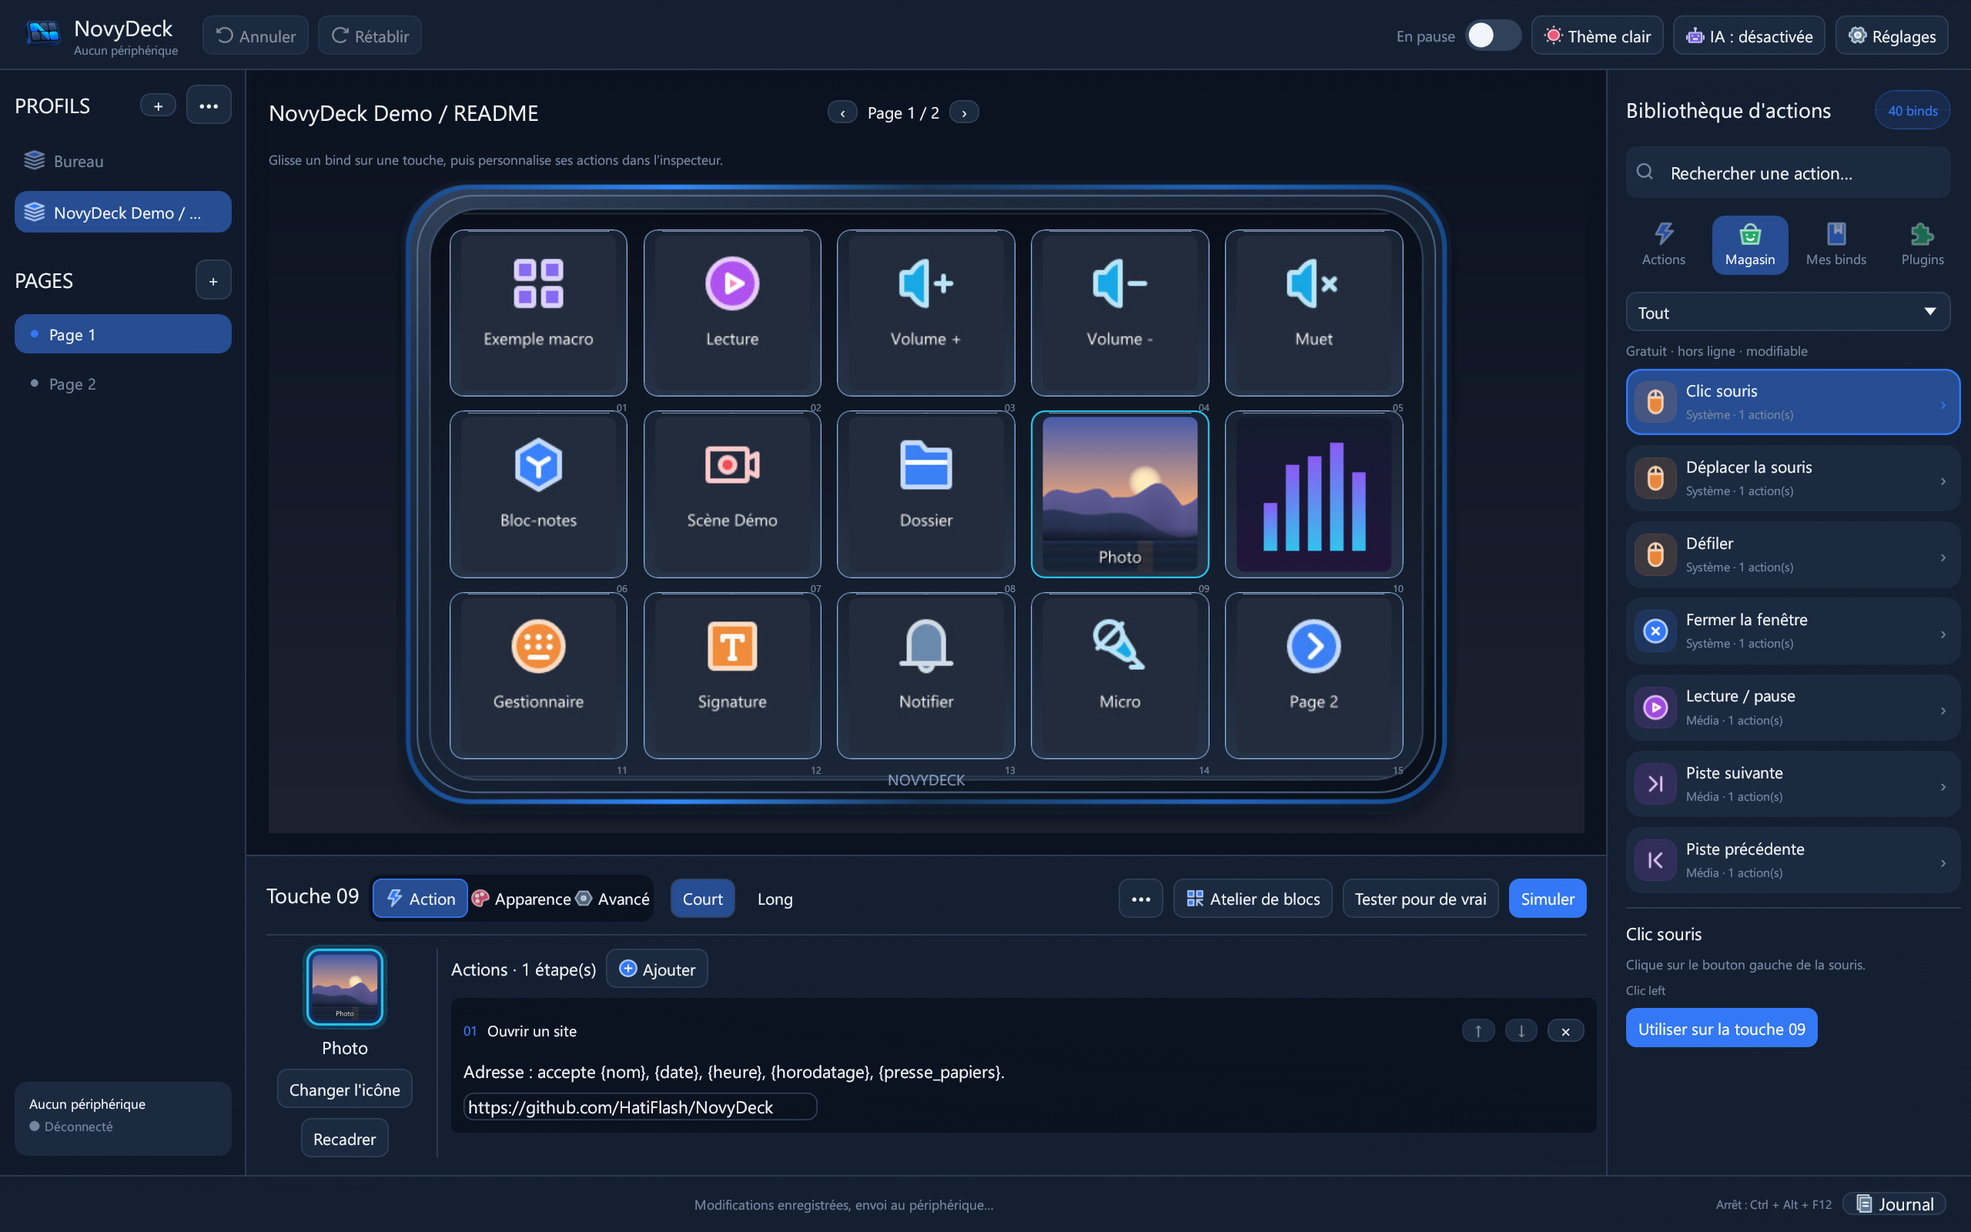
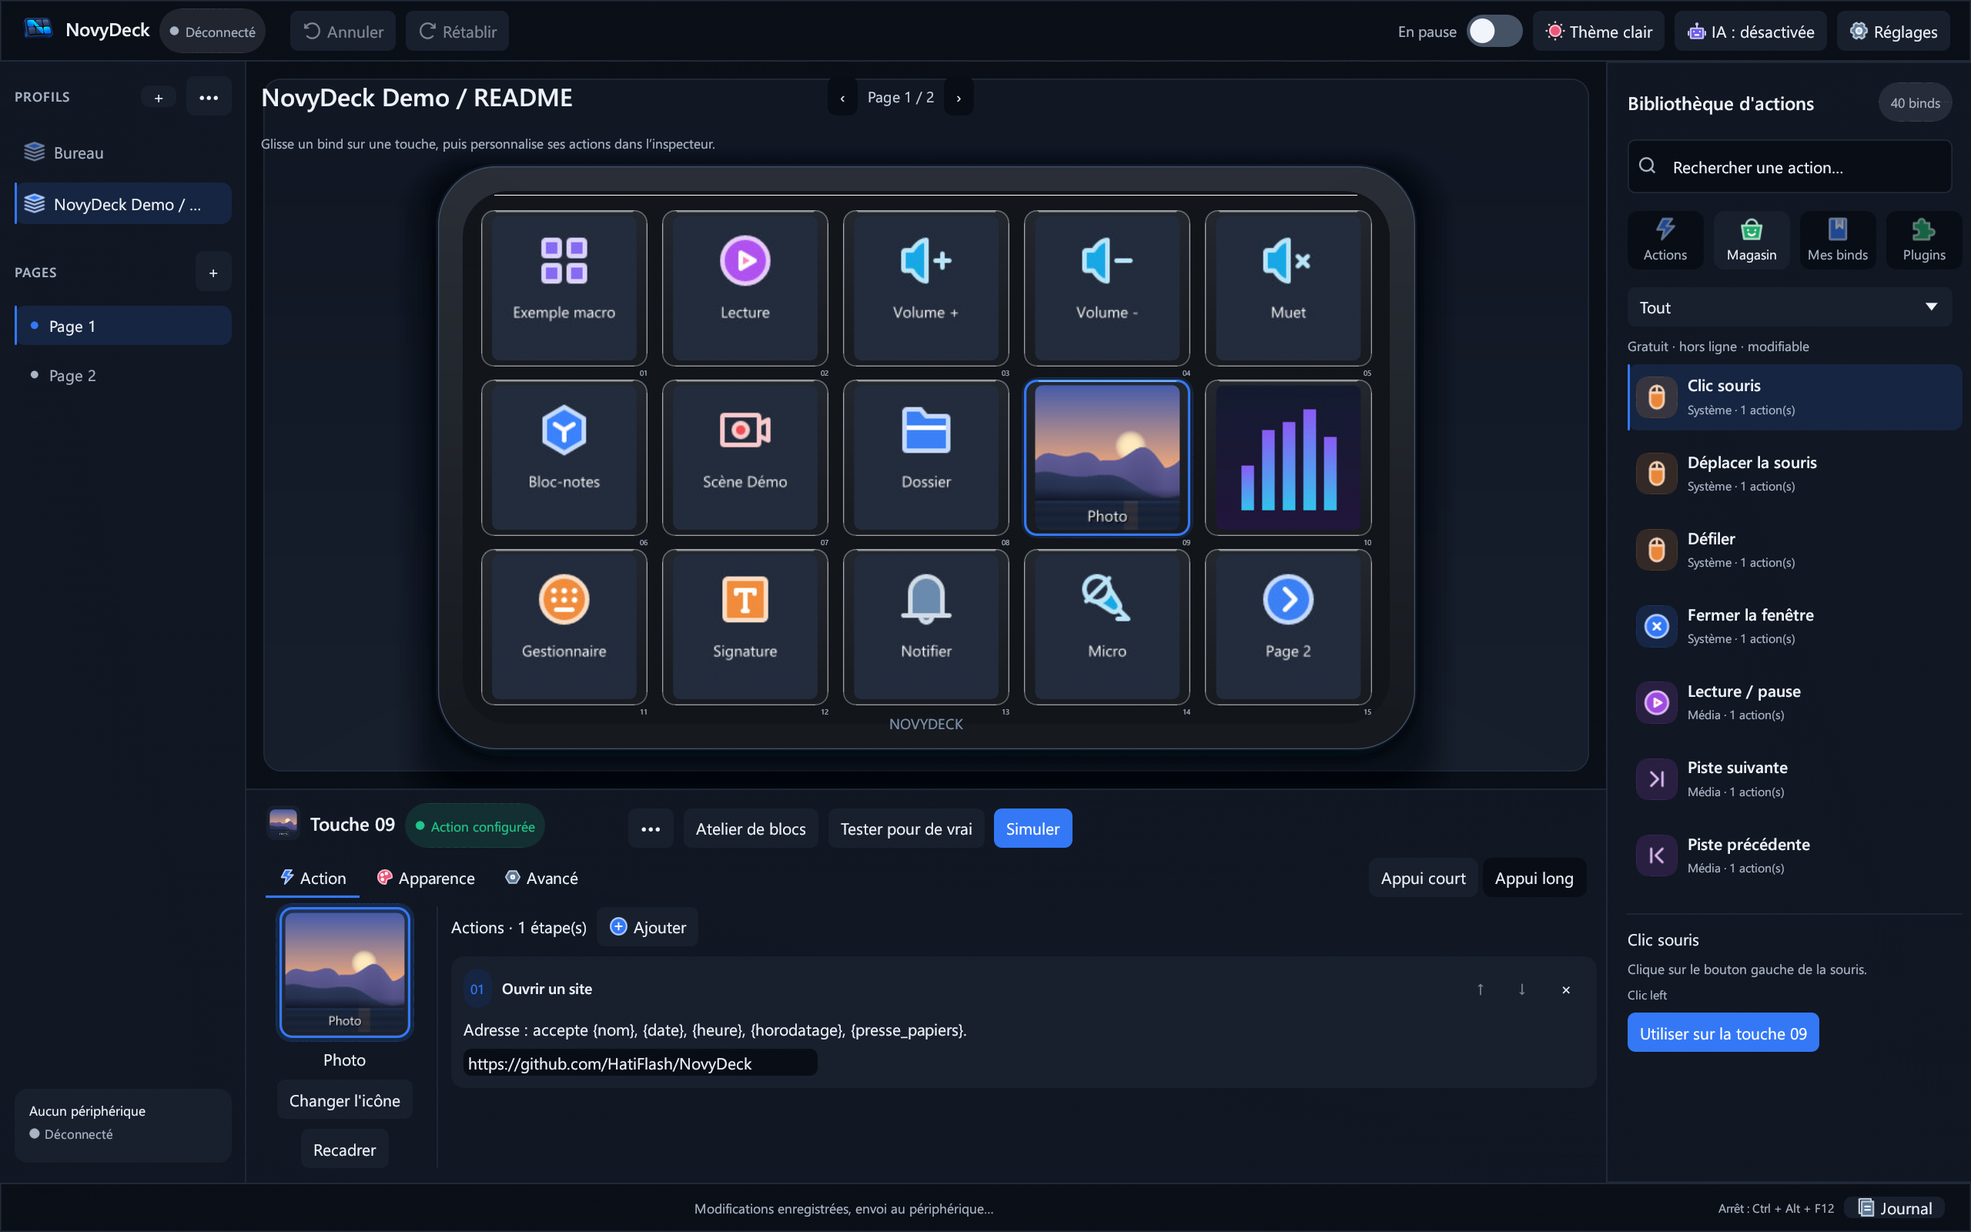
NovyDeck 0.10.0: redesigned interface and design system

diff --git a/docs/DESIGN.md b/docs/DESIGN.md
@@ -1,15 +1,65 @@
 # Identité visuelle de NovyDeck
 
-Ce document décrit les règles visuelles **déjà appliquées dans le code** (`src/theme.rs`). Il sert de référence pour les nouvelles fenêtres, la documentation et la vidéo. Il ne décrit pas une refonte.
+Ce document décrit les règles visuelles **appliquées dans le code** (`src/theme.rs`, `src/deck_chassis.rs`). Il sert de référence pour les nouvelles fenêtres, la documentation et la vidéo. Depuis la 0.10.0, l'interface suit le design system ci-dessous, inspiré de Linear, Raycast, Figma et du Stream Deck, rendu nativement avec egui.
 
 ## Principes
 
-- Thème sombre par défaut (bleu nuit et gris ardoise), thème clair complet. Les couleurs sont lues dans la palette courante (`theme::palette`), jamais codées en dur dans les écrans.
+- Thème sombre par défaut (bleu nuit profond et graphite), thèmes clairs complets. Les couleurs sont lues dans la palette courante (`theme::palette`), jamais codées en dur dans les écrans.
 - Un seul accent pour la sélection et l'action principale. Le vert signale ce qui est connecté ou réussi, l'orange un avertissement et le rouge un danger. Une couleur n'est jamais le seul indice : un texte ou une icône l'accompagne.
 - Pas d'émojis comme icônes de navigation, pas de lueurs néon ni d'effets coûteux image après image.
 - Le contenu des touches (images, GIF, vidéos, couleurs) appartient à l'utilisateur. Le style des icônes de l'interface ne lui est jamais imposé.
 
-## Jetons
+## Design system (0.10.0)
+
+**Principe :** calme, précis, matériel. La profondeur vient des niveaux de fond plutôt que de bordures partout ; un seul accent ; le chrome reste discret pour que le deck soit le héros. La disposition ne change pas : navigation à gauche, deck et inspecteur au centre, bibliothèque d'actions à droite.
+
+### Surfaces et textes (`Palette`)
+
+| Jeton | Bleu nuit | Graphite | Clair | Sable | Usage |
+|---|---|---|---|---|---|
+| `canvas` | `#0B0F17` | `#0C0D10` | `#F5F6F8` | `#F7F4EF` | fond de l'application |
+| `sunken` | `#090E16` | `#0A0B0E` | `#EBEDF1` | `#EEE9E1` | champs, zones encastrées, onglets segmentés |
+| `surface` | `#111723` | `#121418` | `#FFFFFF` | `#FFFDF9` | panneaux (navigation, bibliothèque, inspecteur), scène du deck |
+| `raised` | `#18202E` | `#191C21` | `#F0F2F5` | `#F2EDE5` | cartes, boutons secondaires, éléments survolés |
+| `overlay` | `#1E2737` | `#20242A` | `#FFFFFF` | `#FFFDF9` | menus, popovers |
+| `hairline` | `#222B3A` | `#23262D` | `#E4E7EC` | `#E3DCD2` | séparateurs 1 px |
+| `border_strong` | `#455266` | `#42464E` | `#C0C7D0` | `#C6BAAC` | contours marqués (châssis, focus hors accent) |
+| texte primaire | `#EFF3F9` | `#F3F4F6` | `#0E1116` | `#211D18` | titres et texte courant |
+| texte secondaire | `#C7D1DF` | `#CBCFD6` | `#434A55` | `#4D443A` | descriptions |
+| texte tertiaire | `#A9B4C5` | `#AEB3BB` | `#565D67` | `#63584C` | légendes, intitulés de section |
+
+`accent` vient du réglage d'accent (bleu par défaut `#3478F6`) ; `accent_hover`, `accent_soft` (fond de sélection, ~14 %), `accent_ring` et `on_accent` en sont dérivés. En clair, l'émeraude et l'orange sont assombris pour garder un contraste suffisant. Les couleurs sémantiques (succès, avertissement, danger) ont chacune une variante `*_soft` pour les fonds de pastilles. Le test `theme` vérifie les contrastes WCAG (texte ≥ 4,5:1, composants ≥ 3:1) pour les 4 thèmes × 5 accents.
+
+### Typographie
+
+Segoe UI pour le texte, **Segoe UI Semibold** (`theme::strong`, famille `strong`, repli sur Segoe UI si absente) pour les titres et les libellés actifs. Échelle : 11 (légende, intitulés de section en majuscules espacées via `theme::overline`), 12 (secondaire), 13 (corps dense et boutons), 15 (sous-titres de panneau), 20 (titre du profil).
+
+### Espacements, rayons, ombres
+
+Grille de 4 (`SPACE` = 4 · 8 · 12 · 16 · 24 · 32). Rayons : 6 contrôles (`RADIUS_SM`), 10 cartes et lignes (`RADIUS_MD`), 14 panneaux, fenêtres et scène (`RADIUS_LG`). Ombres douces uniquement sur fenêtres, menus et popovers, et ombre portée en couches sous le châssis du deck (pas de halo coloré).
+
+### Composants (`src/theme.rs`)
+
+| Composant | Rendu |
+|---|---|
+| `primary` | accent plein, texte `on_accent` ; une seule action principale par zone (Simuler, Utiliser sur la touche) |
+| `ghost_button` / `secondary_button` | fond `raised` discret, **aucun contour au repos**, plus clair au survol, `accent_soft` à l'appui |
+| `icon_button` | carré compact avec icône IconPark, infobulle et nom accessible (Annuler, Rétablir…) |
+| `segmented` | pilules sur fond `sunken`, élément actif en `raised` (pagination, Appui court / long, onglets de la bibliothèque) |
+| `underline_tabs` | onglets texte + icône avec indicateur accent de 2 px (Action / Apparence / Avancé) |
+| `list_row` | ligne sans cadre, fond au survol, sélection `accent_soft` + barre d'accent de 2 px à gauche |
+| `search_field` | champ encastré avec loupe et texte indicatif tertiaire |
+| `overline`, `pill`, `status_badge`, `card` | intitulés de section, pastilles d'état sans contour, cartes `raised` |
+
+### Deck
+
+Châssis graphite avec contour `border_strong`, reflet haut discret et ombre portée douce, posé sur une scène `surface` arrondie. Les faces ont des teintes graphite fixes dans tous les thèmes (elles sont sur le châssis), un contour presque invisible, un éclaircissement au survol (~100 ms) et un anneau d'accent de 2 px sur la touche sélectionnée ; le vert signale toujours un appui. Les images envoyées au périphérique ne changent pas.
+
+### Mouvement
+
+Transitions de survol et d'appui de 100 à 120 ms (`animate_bool_with_time`), uniquement sur l'opacité ou la couleur : aucune cible de clic ne se déplace. Elles sont coupées par **Réduire les animations**.
+
+## Jetons historiques
 
 | Jeton | Valeur | Usage |
 |---|---|---|
@@ -18,8 +68,8 @@ Ce document décrit les règles visuelles **déjà appliquées dans le code** (`
 | `WARNING` | `#F5AD42` | avertissement, plugin en erreur |
 | `DANGER` | `#F25F70` | action destructrice |
 | `SPACE` | 4 · 8 · 12 · 16 · 24 · 32 | espacements ; `item_spacing` = 8 |
-| `RADIUS_SM` | 8 | boutons, champs |
-| `RADIUS_MD` | 12 | menus, cartes, panneaux non interactifs |
+| `RADIUS_SM` | 6 | boutons, champs |
+| `RADIUS_MD` | 10 | menus, cartes, lignes de liste |
 | `RADIUS_LG` | 14 | fenêtres |
 | `KEY_LCD_RADIUS` | 6 | écran d'une touche hors châssis SVG |
 
@@ -47,5 +97,5 @@ La source utilisateur RGBA et son alpha sont conservés. Les déclinaisons sont 
 
 ## Captures et vidéo
 
-- Les captures `docs/images/*.png` sont produites par `readme_captures_from_the_demo_profile` (`src/ui_tests.rs`). Ce test exécute le vrai code d'interface hors écran, à **2560 × 1600 pixels** (1600 × 1000 points à 160 %), avec le profil « NovyDeck Demo / README ». Il ne fait aucun agrandissement après coup, et le filtrage des textures est bilinéaire comme dans le rendu GPU. Le contenu des touches reste l'image réelle de 126 × 126 pixels envoyée au D6.
+- Les captures `docs/images/*.png` sont produites par `readme_captures_from_the_demo_profile` et `readme_captures_redesign_in_both_themes_and_languages` (`src/ui_tests.rs`). Ce test exécute le vrai code d'interface hors écran, à **2560 × 1600 pixels** (1600 × 1000 points à 160 %), avec le profil « NovyDeck Demo / README ». Il ne fait aucun agrandissement après coup, et le filtrage des textures est bilinéaire comme dans le rendu GPU. Le contenu des touches reste l'image réelle de 126 × 126 pixels envoyée au D6.
 - La vidéo publiée `docs/media/novydeck-demo.mp4` est un film de présentation de 40 s en 1920 × 1080 à 60 i/s, avec son, réalisé hors du dépôt avec Remotion et three.js : pavé D6 en 3D, captures réelles de l'interface et musique synthétisée. Le pipeline `scripts/media/remotion/` du dépôt reste disponible pour la présentation précédente ; il ne produit pas ce film publié.

diff --git a/README.fr.md b/README.fr.md
@@ -5,7 +5,7 @@
   <h1>NovyDeck</h1>
   <p>Logiciel libre pour Windows qui pilote les stream decks : touches, macros, médias et plugins, sans le logiciel officiel. Testé sur le FIFINE AmpliGame D6 et l'Elgato Stream Deck.</p>
   <p>
-    <a href="https://github.com/HatiFlash/NovyDeck/releases/tag/v0.9.3"><img src="https://img.shields.io/badge/Release-v0.9.3-3478F6.svg" alt="Version 0.9.3"></a>
+    <a href="https://github.com/HatiFlash/NovyDeck/releases/tag/v0.10.0"><img src="https://img.shields.io/badge/Release-v0.10.0-3478F6.svg" alt="Version 0.10.0"></a>
     <a href="LICENSE"><img src="https://img.shields.io/badge/Licence-MIT-22C58B.svg" alt="Licence MIT"></a>
     <img src="https://img.shields.io/badge/Windows-10%20%2F%2011-555.svg" alt="Windows 10/11">
   </p>
@@ -20,6 +20,24 @@
 [![Voir le film de présentation NovyDeck](docs/media/novydeck-demo-poster.png)](docs/media/novydeck-demo.mp4)
 
 Un film de présentation de 40 s en 1920 × 1080 à 60 i/s, avec son, réalisé avec Remotion et three.js. Il montre le pavé D6 en 3D, de vraies captures de l'interface et une musique synthétisée. Le film publié a été produit hors du dépôt.
+
+## Nouveautés 0.10.0
+
+### Une interface redessinée
+
+NovyDeck change de visage, avec un design inspiré de Linear, Raycast, Figma et du Stream Deck, toujours rendu nativement en Rust avec egui. La disposition que vous connaissez ne bouge pas (navigation à gauche, deck et inspecteur de la touche au centre, bibliothèque d'actions à droite) ; tout le reste a été redessiné :
+
+- **Le deck au premier plan.** Fini le néon bleu : un châssis graphite avec une ombre portée douce, posé sur une scène arrondie. Les touches sont plus sobres, s'éclairent au survol et la touche sélectionnée est marquée par un anneau d'accent.
+- **Des contrôles plus calmes.** Les boutons secondaires n'ont plus de contour et s'éclairent au survol ; seule l'action principale de chaque zone (**Simuler**, **Utiliser sur la touche**) est mise en avant. En petite fenêtre, Annuler et Rétablir se réduisent à leurs icônes.
+- **Un inspecteur de touche plus clair.** Un en-tête avec l'aperçu de la touche, son nom et une pastille d'état ; des onglets soulignés **Action / Apparence / Avancé** avec le choix **Appui court / Appui long** sur la même ligne ; les étapes présentées en cartes.
+- **Une bibliothèque d'actions épurée.** Des lignes sans cadre, une barre d'accent sur l'élément sélectionné, des noms en semi-gras et une carte de détail.
+- **Un vrai design system.** Des couleurs plus profondes et moins saturées dans les quatre thèmes (le vôtre change aussi), Segoe UI Semibold pour les titres, petites capitales espacées pour les intitulés de section, une grille d'espacement de 4 pixels, des rayons cohérents, des ombres douces sur les menus et de courtes transitions au survol, coupées par **Réduire les animations**.
+
+Vos profils, images de touches, macros et plugins ne changent pas, et les images envoyées au périphérique restent identiques.
+
+| Thème sombre | Thème clair |
+|:--:|:--:|
+| ![Interface NovyDeck redessinée, thème sombre](docs/images/redesign-dark-fr.png) | ![Interface NovyDeck redessinée, thème clair](docs/images/redesign-light-fr.png) |
 
 ## Nouveautés 0.9.3
 
@@ -220,6 +238,7 @@ NovyDeck fonctionne hors ligne. L'IA locale reste sur votre PC ; elle est facult
 
 ## Dernière version
 
+- **0.10.0 :** interface redessinée avec un nouveau design system : scène du deck graphite sans néon, boutons sans contour, inspecteur de touche plus clair avec onglets soulignés, bibliothèque épurée, couleurs plus profondes dans tous les thèmes et titres en semi-gras. Profils, médias et plugins conservés.
 - **0.9.3 :** badges de sécurité dans le magasin (analyse automatique sur GitHub) ; plugins officiels 1.0.2 avec logos et réglages repensés ; plus de console pendant la mise à jour ; fenêtres secondaires fixes ; état ON/OFF conservé entre les pages.
 - **0.9.2 :** deux images Activé/Désactivé par touche alternent à l’appui court physique ; textes anglais et panneau Windows fixe ; plugins officiels 1.0.1 sans cadres noirs, aperçus CPU/RAM mesurés.
 - **0.9.1 :** le magasin de plugins devient une page fixe de l'application (plus de fenêtre flottante), avec bouton retour et Échap ; les blocs de plugins de l'Atelier affichent les noms lisibles du plugin et de l'action ; le README présente les nouveautés 0.9.0 avec captures.

diff --git a/README.md b/README.md
@@ -5,7 +5,7 @@ English · [Français](README.fr.md)
   <h1>NovyDeck</h1>
   <p>Open-source Windows software for stream decks: keys, macros, media and plugins, without the official software. Tested on the FIFINE AmpliGame D6 and the Elgato Stream Deck.</p>
   <p>
-    <a href="https://github.com/HatiFlash/NovyDeck/releases/tag/v0.9.3"><img src="https://img.shields.io/badge/Release-v0.9.3-3478F6.svg" alt="Release v0.9.3"></a>
+    <a href="https://github.com/HatiFlash/NovyDeck/releases/tag/v0.10.0"><img src="https://img.shields.io/badge/Release-v0.10.0-3478F6.svg" alt="Release v0.10.0"></a>
     <a href="LICENSE"><img src="https://img.shields.io/badge/License-MIT-22C58B.svg" alt="MIT license"></a>
     <img src="https://img.shields.io/badge/Windows-10%20%2F%2011-555.svg" alt="Windows 10/11">
   </p>
@@ -20,6 +20,24 @@ English · [Français](README.fr.md)
 [![Watch the NovyDeck presentation film](docs/media/novydeck-demo-poster.png)](docs/media/novydeck-demo.mp4)
 
 A 40-second presentation film in 1920 × 1080 at 60 fps with sound, made with Remotion and three.js. It features a 3D D6 deck, actual interface captures and synthesized music. The published film was produced outside this repository.
+
+## What's new in 0.10.0
+
+### A redesigned interface
+
+NovyDeck has a new visual design, inspired by Linear, Raycast, Figma and the Stream Deck, still rendered natively in Rust with egui. The layout you know stays the same (navigation on the left, deck and key inspector in the middle, action library on the right); everything else was redrawn:
+
+- **The deck is the hero.** No more blue neon glow: a graphite chassis with a soft drop shadow, on a rounded stage. Keys are calmer, light up on hover and show the selected key with an accent ring.
+- **Calmer controls.** Secondary buttons no longer have outlines and brighten on hover; only the main action of each area (**Simulate**, **Use on key**) is highlighted. In small windows, Undo and Redo shrink to icon buttons.
+- **A clearer key inspector.** A header with the key preview, its name and a status badge; underlined **Action / Appearance / Advanced** tabs with the **Short press / Long press** switch on the same line; steps shown as cards.
+- **A cleaner action library.** Flat rows with a highlight bar on the selected item, semibold names and a details card.
+- **A real design system.** Deeper, less saturated colours in all four themes (your current theme changes too), Segoe UI Semibold for titles, small spaced capitals for section labels, a 4-pixel spacing grid, consistent radii, soft shadows on menus, and short hover transitions that turn off with **Reduce animations**.
+
+Your profiles, key images, macros and plugins are untouched, and the images sent to the device do not change.
+
+| Dark theme | Light theme |
+|:--:|:--:|
+| ![Redesigned NovyDeck interface, dark theme](docs/images/redesign-dark.png) | ![Redesigned NovyDeck interface, light theme](docs/images/redesign-light.png) |
 
 ## What's new in 0.9.3
 
@@ -220,6 +238,7 @@ NovyDeck works offline. Local AI stays on your PC and is optional and disabled b
 
 ## Latest release
 
+- **0.10.0:** redesigned interface with a new design system: graphite deck stage without neon glow, outline-free buttons, clearer key inspector with underlined tabs, cleaner action library, deeper colours in all themes and Semibold titles. Profiles, media and plugins are kept.
 - **0.9.3:** security badges in the plugin store (automatic GitHub scan); official plugins 1.0.2 with logos and cleaner settings; no console during in-app updates; fixed secondary windows; ON/OFF state kept across pages.
 - **0.9.2:** keys can alternate two user-selected ON/OFF images on short physical presses; English text and a fixed Windows and shortcuts dialog; official plugins 1.0.1 improve key text and CPU/RAM previews.
 - **0.9.1:** the plugin store is now a fixed page of the app (no floating window), with a back button and Esc; plugin blocks in the block editor show readable plugin and action names; README presents the 0.9.0 features with screenshots.

diff --git a/docs/RELEASE-0.10.0.md b/docs/RELEASE-0.10.0.md
@@ -1,0 +1,23 @@
+# NovyDeck 0.10.0 — a redesigned interface
+
+## English
+
+- **New visual design.** Inspired by Linear, Raycast, Figma and the Stream Deck, still native Rust and egui. The layout stays the same (navigation left, deck and inspector centre, action library right).
+- **Deck stage.** Graphite chassis with a soft drop shadow instead of the blue neon glow; calmer keys that light up on hover; accent ring on the selected key.
+- **Controls.** Outline-free secondary buttons that brighten on hover; one highlighted main action per area; Undo/Redo shrink to icons in small windows; compact status badge.
+- **Key inspector.** Header with key preview, name and status; underlined Action / Appearance / Advanced tabs with the Short / Long press switch on the same line; steps shown as cards.
+- **Action library.** Flat rows with a highlight bar on the selection, semibold names and a details card.
+- **Design system.** Deeper, less saturated colours in all four themes, Segoe UI Semibold titles, spaced capitals for section labels, 4-pixel spacing grid, consistent radii, soft shadows on menus and short hover transitions (off with Reduce animations).
+
+Your profiles, key images, macros and plugins are kept; images sent to the device are unchanged.
+
+## Français
+
+- **Nouveau design.** Inspiré de Linear, Raycast, Figma et du Stream Deck, toujours natif en Rust et egui. La disposition ne change pas (navigation à gauche, deck et inspecteur au centre, bibliothèque d'actions à droite).
+- **Scène du deck.** Châssis graphite avec ombre portée douce à la place du néon bleu ; touches plus sobres qui s'éclairent au survol ; anneau d'accent sur la touche sélectionnée.
+- **Contrôles.** Boutons secondaires sans contour qui s'éclairent au survol ; une seule action principale mise en avant par zone ; Annuler/Rétablir réduits à leurs icônes en petite fenêtre ; pastille d'état compacte.
+- **Inspecteur de touche.** En-tête avec aperçu, nom et état ; onglets soulignés Action / Apparence / Avancé avec le choix Appui court / long sur la même ligne ; étapes en cartes.
+- **Bibliothèque d'actions.** Lignes sans cadre, barre d'accent sur la sélection, noms en semi-gras et carte de détail.
+- **Design system.** Couleurs plus profondes et moins saturées dans les quatre thèmes, titres en Segoe UI Semibold, intitulés de section en capitales espacées, grille d'espacement de 4 pixels, rayons cohérents, ombres douces sur les menus et courtes transitions au survol (coupées par Réduire les animations).
+
+Vos profils, images de touches, macros et plugins sont conservés ; les images envoyées au périphérique ne changent pas.
